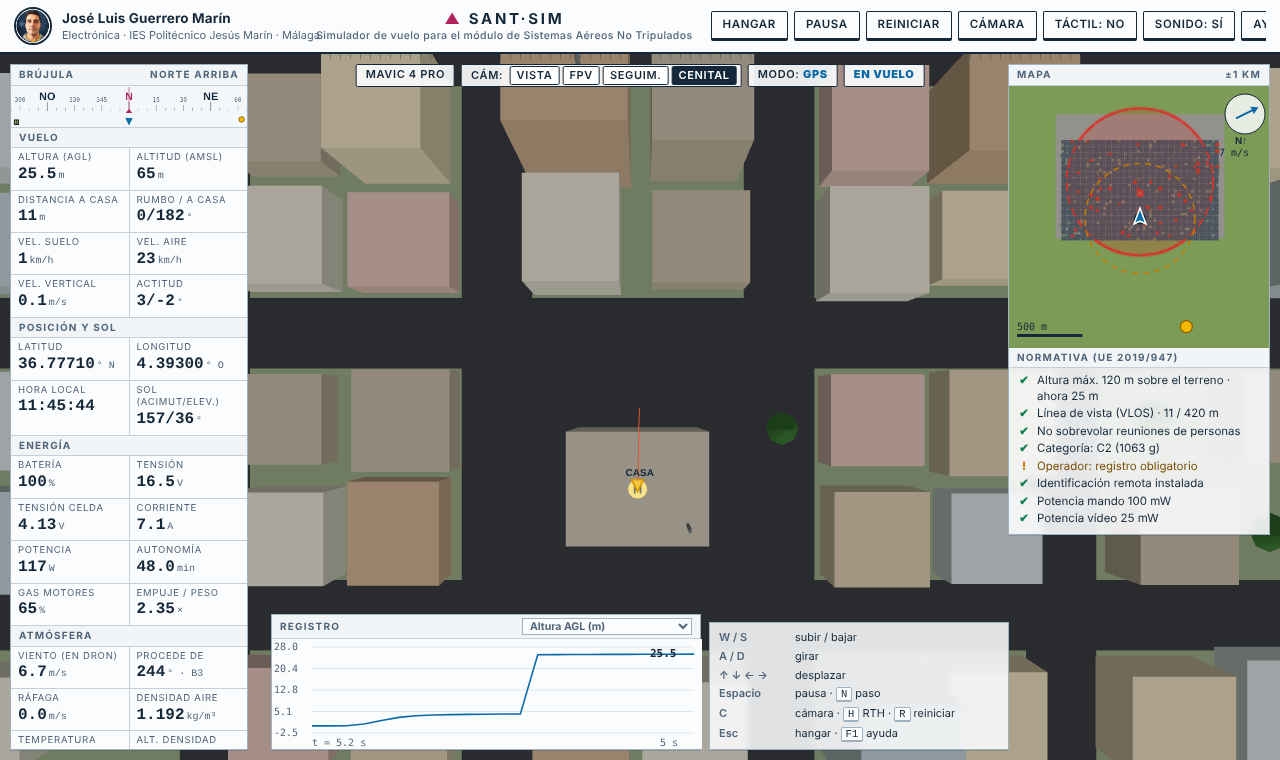
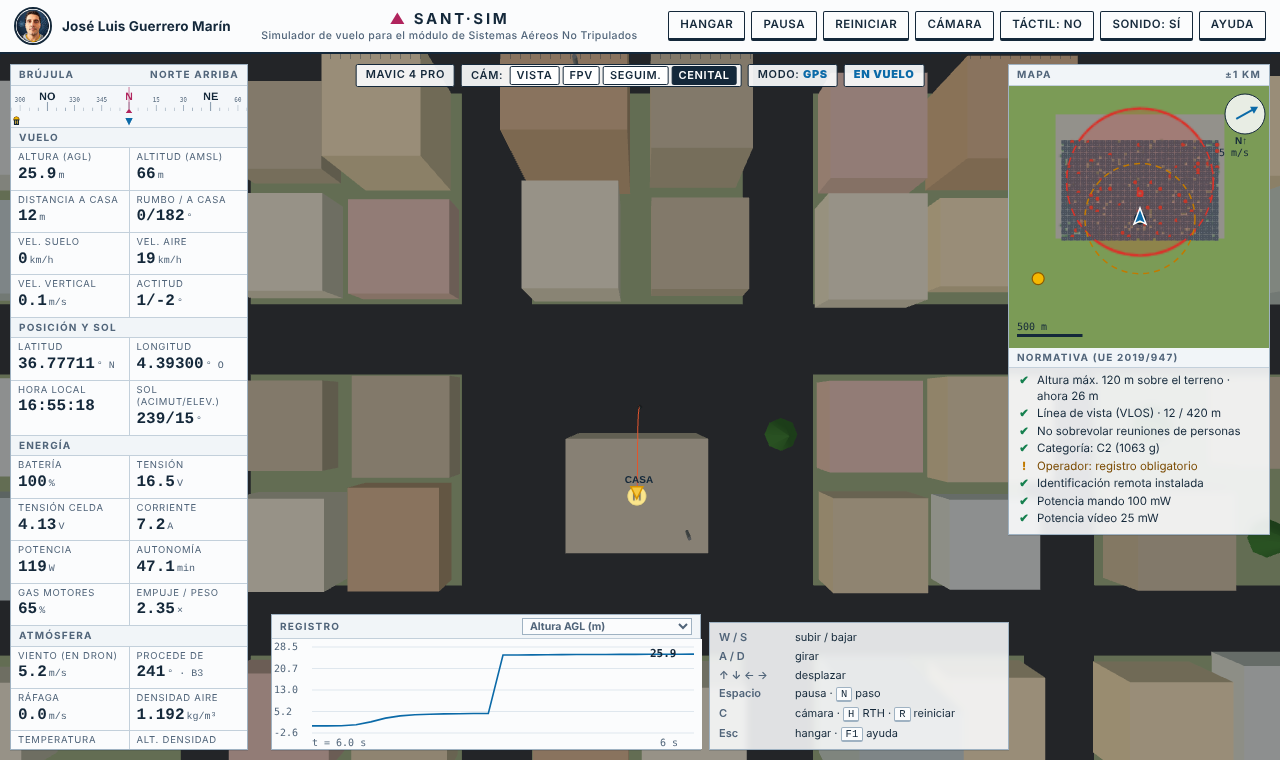
README: capturas actualizadas (cabecera solo con el nombre) y descripción ampliada del modo competición
Claude-Session: https://claude.ai/code/session_01Y2S48wxLrPxAzAiSsaZnAB

diff --git a/README.md b/README.md
@@ -35,11 +35,18 @@ Simulador de drones que funciona en el navegador, sin instalar nada y sin conexi
 
 ![Pasarela de madera del Guadalhorce](img/guadalhorce-pasarela.png)
 
-**Modo competición** (opcional, en cualquier escenario): recorrido de 1 a 20 aros a distintas alturas. El siguiente aro se ilumina en amarillo y los superados se ponen en verde; hay flechas que indican hacia dónde está, cronómetro con tiempos parciales y mejor tiempo guardado. A más aros, aros más pequeños, más separados y a alturas más distintas.
+**Modo competición** (opcional, en cualquier escenario): recorrido de **1 a 20 aros** a distintas alturas, con cronómetro.
+- El siguiente aro se ilumina en **amarillo**, los pendientes son naranjas y los superados se ponen en **verde**. Cada aro lleva su número y un poste hasta el suelo para valorar la altura.
+- Al pasar bien por un aro suena un *clink* (tipo anillo de Sonic), la pantalla da un destello verde y el aro hace un estallido; al completar el recorrido suena una fanfarria y el destello es dorado.
+- Flechas en pantalla hacia el siguiente aro, distancia y diferencia de altura, aros marcados en el minimapa, tiempos parciales y **mejor tiempo guardado** por escenario y número de aros.
+- **El slider fija la dificultad**: de *muy fácil* (1–3 aros) a *experto* (18–20). A más aros, aros más pequeños (de unos 8 m a 4 m de diámetro), más separados y a alturas más distintas. Adaptado a multirrotores, ala fija y a la nave interior.
+- Cada vuelo nuevo genera un recorrido distinto; **Reiniciar** repite el mismo para intentar mejorar el tiempo.
 
-![Modo competición: aros, cronómetro y mapa](img/competicion.png)
+![Ajustes del modo competición](img/competicion-ajustes.png)
 
-![Recorrido completado](img/competicion-fin.png)
+![Pasando por un aro: destello, cronómetro y mapa](img/competicion-aros.png)
+
+![Recorrido completado con tiempos parciales](img/competicion-fin.png)
 
 **Cuatro cámaras**: a la vista (VLOS), FPV, seguimiento y cenital, con mapa y HUD.
 
@@ -53,7 +60,7 @@ Simulador de drones que funciona en el navegador, sin instalar nada y sin conexi
 - Registro de vuelo con gráficas y exportación a CSV.
 - Pausa, avance paso a paso e inspector de valores.
 - Parámetros de ArduPilot: se puede cargar un archivo `.param` y el simulador aplica los que tienen efecto (de forma aproximada, no es un SITL).
-- Sonido sintetizado de motores y avisos.
+- Sonido sintetizado de motores, viento, lluvia, avisos y aros; se silencia al salir al hangar.
 
 ## Cómo se controla
 
@@ -73,7 +80,7 @@ Simulador de drones que funciona en el navegador, sin instalar nada y sin conexi
 
 - Es un simulador didáctico, no un SITL ni un simulador certificado: la dinámica es simplificada y los parámetros de ArduPilot se interpretan de forma aproximada.
 - En los modelos comerciales, el motor y la hélice equivalentes están estimados (el fabricante no los publica); masa, autonomía y velocidades se ajustan a la ficha.
-- La emisora real se ha probado con un mando simulado; conviene revisar ejes e inversiones con cada radio.
+- La emisora real se ha probado por cable con una radio EdgeTX; el dongle inalámbrico (Spektrum) está pendiente de probar. Conviene revisar ejes e inversiones con cada radio.
 
 ## Archivos
 
